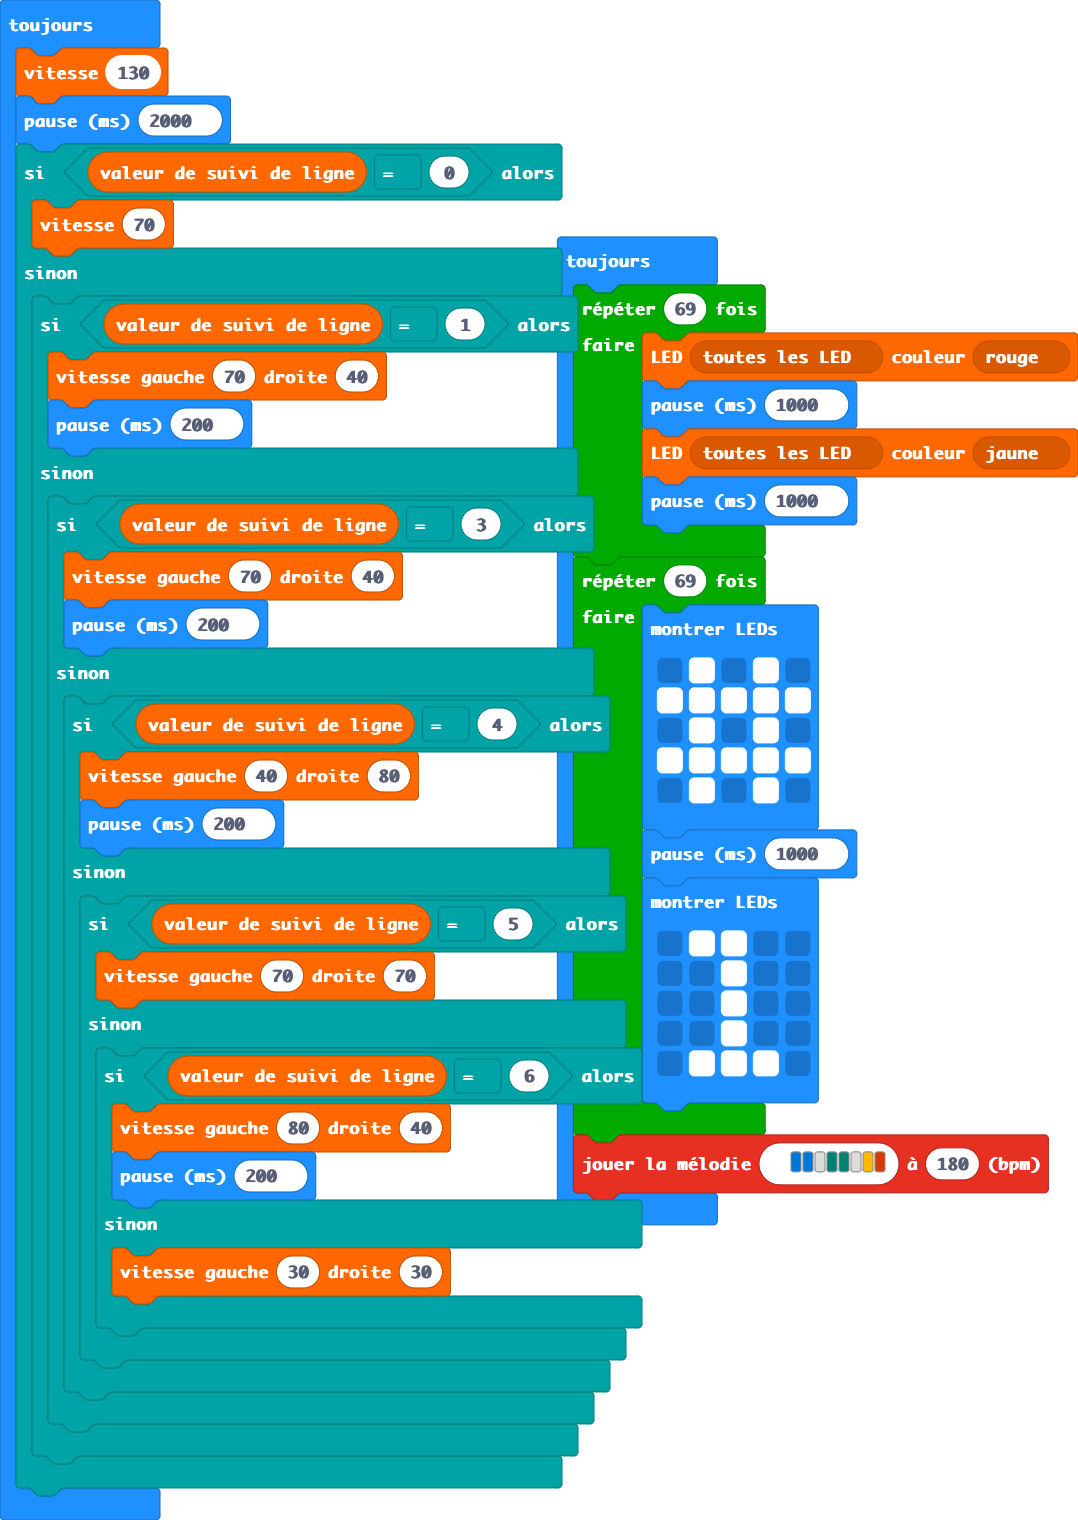
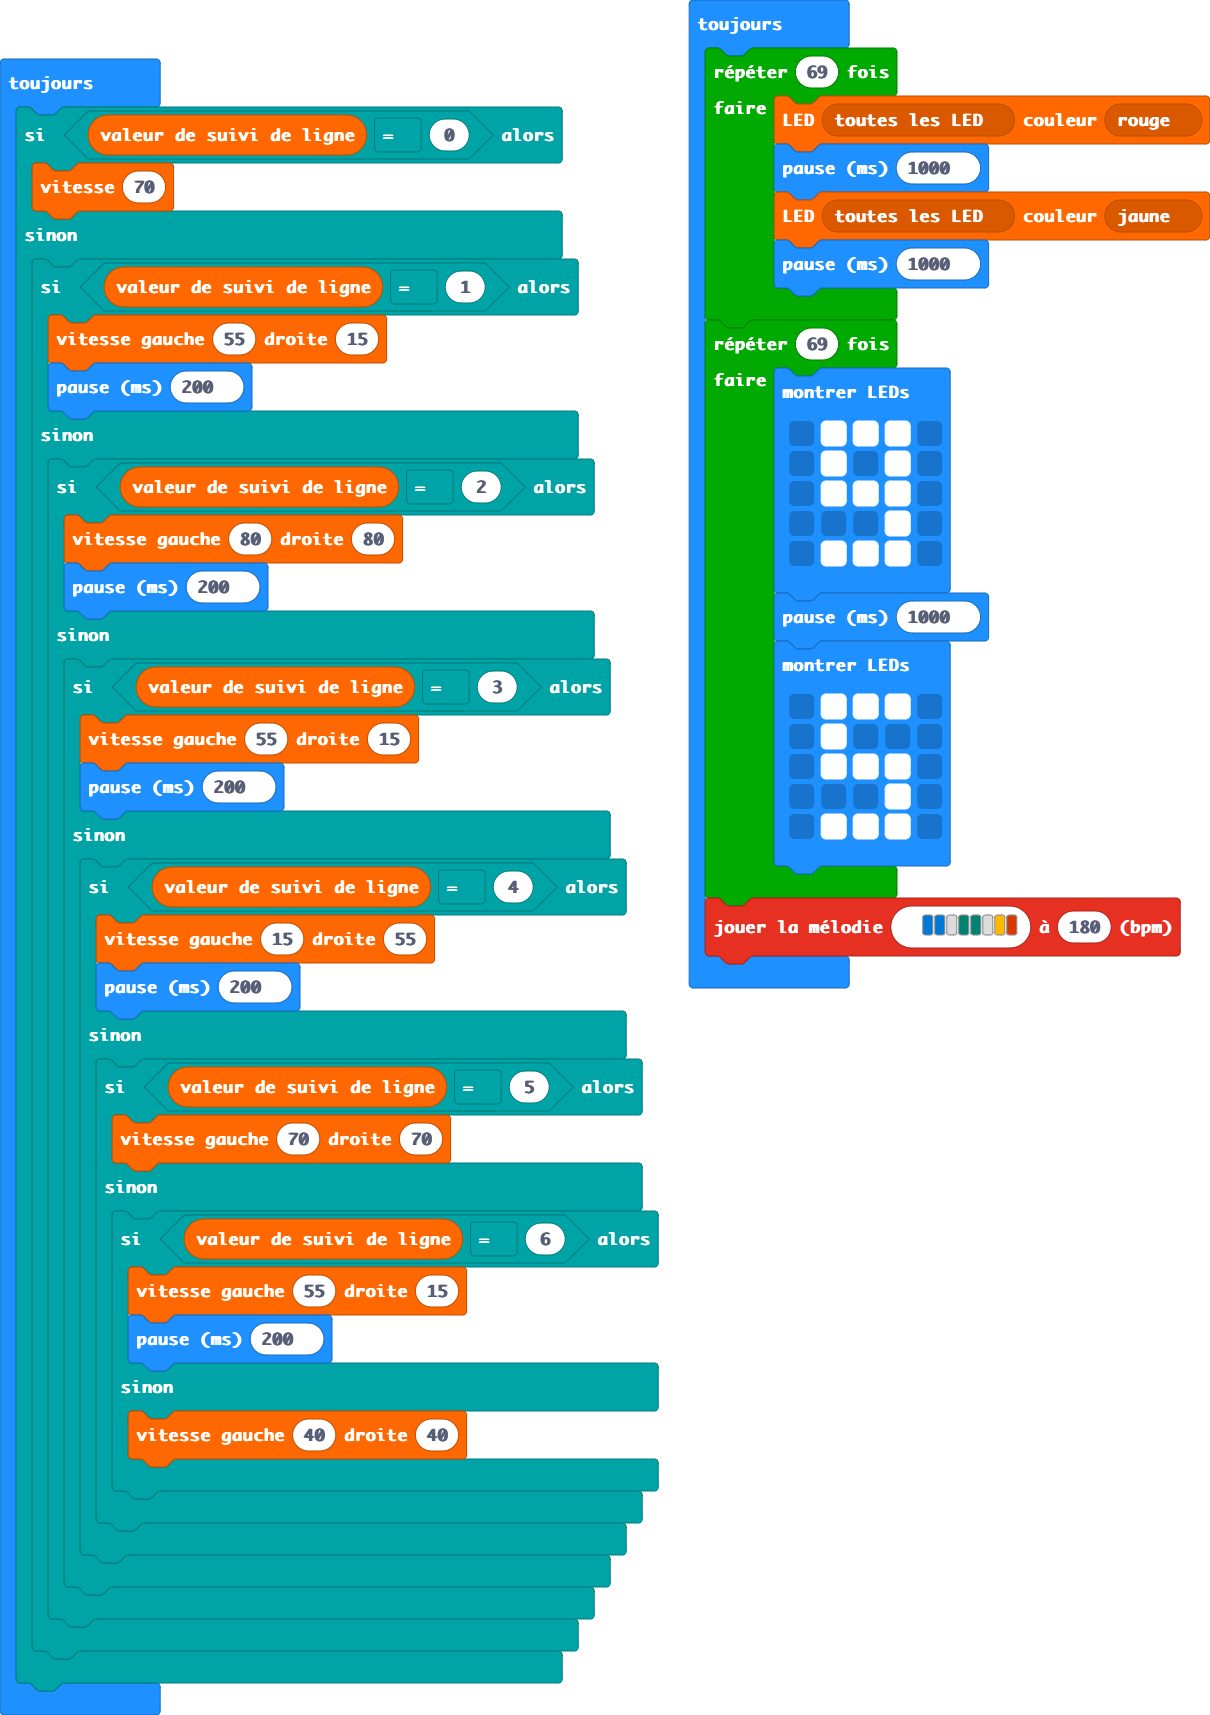
Mise à jour main.blocks, main.ts

diff --git a/main.ts b/main.ts
@@ -1,37 +1,4 @@
 basic.forever(function () {
-    Rover.Move(130)
-    basic.pause(2000)
-    if (Rover.LineTracking() == 0) {
-        Rover.Move(70)
-    } else {
-        if (Rover.LineTracking() == 1) {
-            Rover.MotorRunDual(70, 40)
-            basic.pause(200)
-        } else {
-            if (Rover.LineTracking() == 3) {
-                Rover.MotorRunDual(70, 40)
-                basic.pause(200)
-            } else {
-                if (Rover.LineTracking() == 4) {
-                    Rover.MotorRunDual(40, 80)
-                    basic.pause(200)
-                } else {
-                    if (Rover.LineTracking() == 5) {
-                        Rover.MotorRunDual(70, 70)
-                    } else {
-                        if (Rover.LineTracking() == 6) {
-                            Rover.MotorRunDual(80, 40)
-                            basic.pause(200)
-                        } else {
-                            Rover.MotorRunDual(30, 30)
-                        }
-                    }
-                }
-            }
-        }
-    }
-})
-basic.forever(function () {
     for (let index = 0; index < 69; index++) {
         Rover.setRGBLED(Rover.ledIndex(LEDIndex.LED_All), Rover.colors(RoverColors.Red))
         basic.pause(1000)
@@ -40,20 +7,56 @@ basic.forever(function () {
     }
     for (let index = 0; index < 69; index++) {
         basic.showLeds(`
+            . # # # .
             . # . # .
-            # # # # #
-            . # . # .
-            # # # # #
-            . # . # .
+            . # # # .
+            . . . # .
+            . # # # .
             `)
         basic.pause(1000)
         basic.showLeds(`
-            . # # . .
-            . . # . .
-            . . # . .
-            . . # . .
+            . # # # .
+            . # . . .
+            . # # # .
+            . . . # .
             . # # # .
             `)
     }
     music.playMelody("E E - F F - A B ", 180)
+})
+basic.forever(function () {
+    if (Rover.LineTracking() == 0) {
+        Rover.Move(70)
+    } else {
+        if (Rover.LineTracking() == 1) {
+            Rover.MotorRunDual(55, 15)
+            basic.pause(200)
+        } else {
+            if (Rover.LineTracking() == 2) {
+                Rover.MotorRunDual(80, 80)
+                basic.pause(200)
+            } else {
+                if (Rover.LineTracking() == 3) {
+                    Rover.MotorRunDual(55, 15)
+                    basic.pause(200)
+                } else {
+                    if (Rover.LineTracking() == 4) {
+                        Rover.MotorRunDual(15, 55)
+                        basic.pause(200)
+                    } else {
+                        if (Rover.LineTracking() == 5) {
+                            Rover.MotorRunDual(70, 70)
+                        } else {
+                            if (Rover.LineTracking() == 6) {
+                                Rover.MotorRunDual(55, 15)
+                                basic.pause(200)
+                            } else {
+                                Rover.MotorRunDual(40, 40)
+                            }
+                        }
+                    }
+                }
+            }
+        }
+    }
 })
